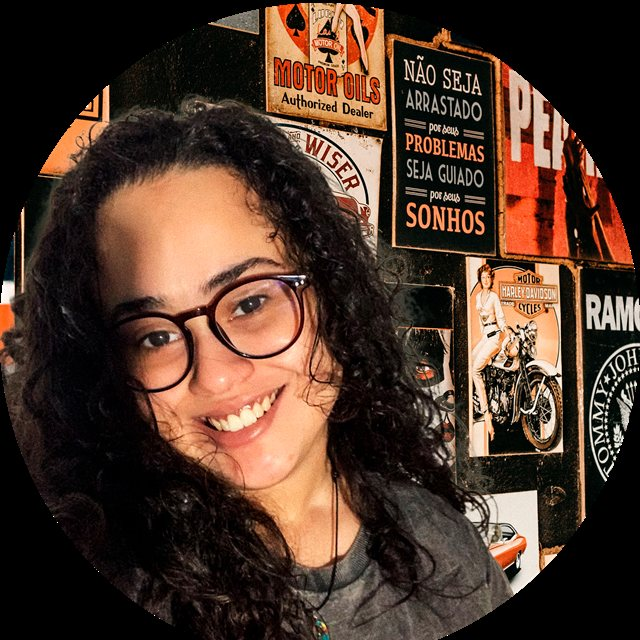
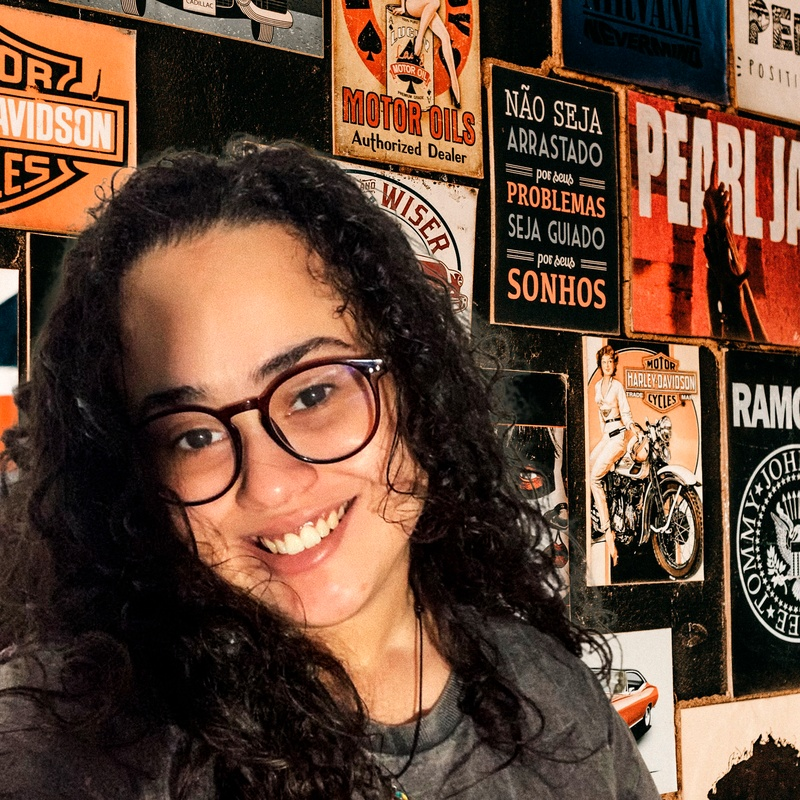
fix: foto 1:1 real na polaroid, celulares em arco panoramico e controles limpos fora de projetos

diff --git a/src/css/style.css b/src/css/style.css
@@ -118,21 +118,21 @@ button:disabled { cursor: wait; }
 .polaroid p { font-size: 11px; line-height: 1.7; margin-top: 6px; }
 
 /* 4. Mockups de Celulares 3D Verticais (Sites) */
-.site-projector { width: 270px; height: 540px; padding: 14px 12px 16px; display: flex; flex-direction: column; background: linear-gradient(145deg, #25262c 0%, #121316 100%); border-radius: 40px; border: 4px solid #363942; box-shadow: 0 25px 65px rgba(0,0,0,0.85), inset 0 0 0 1px rgba(255,255,255,0.14), inset 0 1px 2px rgba(255,255,255,0.25), 0 0 0 1px #090a0d; will-change: transform; }
+.site-projector { width: 240px; height: 480px; padding: 12px 10px 14px; display: flex; flex-direction: column; background: linear-gradient(145deg, #25262c 0%, #121316 100%); border-radius: 36px; border: 3.5px solid #363942; box-shadow: 0 22px 55px rgba(0,0,0,0.85), inset 0 0 0 1px rgba(255,255,255,0.14), inset 0 1px 2px rgba(255,255,255,0.25), 0 0 0 1px #090a0d; will-change: transform; }
 .site-projector.phone-mockup-3d { position: relative; cursor: grab; touch-action: none; user-select: none; }
 .site-projector.phone-mockup-3d:active { cursor: grabbing; }
-.phone-notch-bar { width: 84px; height: 16px; background: #000; border-radius: 20px; margin: 0 auto 10px; display: flex; align-items: center; justify-content: center; gap: 7px; flex-shrink: 0; box-shadow: 0 1px 3px rgba(0,0,0,0.7); z-index: 10; }
+.phone-notch-bar { width: 76px; height: 14px; background: #000; border-radius: 16px; margin: 0 auto 8px; display: flex; align-items: center; justify-content: center; gap: 6px; flex-shrink: 0; box-shadow: 0 1px 3px rgba(0,0,0,0.7); z-index: 10; }
 .phone-lens { width: 7px; height: 7px; border-radius: 50%; background: #0e1726; box-shadow: inset 0 0 3px #3d74c0; }
-.phone-mic { width: 24px; height: 3px; border-radius: 3px; background: #1c1c1f; }
-.phone-specular-glare { position: absolute; inset: 0; border-radius: 36px; pointer-events: none; mix-blend-mode: screen; opacity: 0.42; background: radial-gradient(circle at 50% 50%, rgba(255,255,255,0.2) 0%, transparent 65%); z-index: 8; transition: opacity 0.3s ease; }
+.phone-mic { width: 22px; height: 3px; border-radius: 3px; background: #1c1c1f; }
+.phone-specular-glare { position: absolute; inset: 0; border-radius: 32px; pointer-events: none; mix-blend-mode: screen; opacity: 0.42; background: radial-gradient(circle at 50% 50%, rgba(255,255,255,0.2) 0%, transparent 65%); z-index: 8; transition: opacity 0.3s ease; }
 .projector-label { display: none; }
-.projector-screen { flex: 1; min-height: 0; width: 100%; border-radius: 26px; overflow: hidden; background: #0a0b0d; border: 1px solid rgba(255,255,255,0.06); position: relative; box-shadow: inset 0 0 12px rgba(0,0,0,0.9); display: block; padding: 0; }
+.projector-screen { flex: 1; min-height: 0; width: 100%; border-radius: 22px; overflow: hidden; background: #0a0b0d; border: 1px solid rgba(255,255,255,0.06); position: relative; box-shadow: inset 0 0 12px rgba(0,0,0,0.9); display: block; padding: 0; }
 .projector-screen img { display: block; width: 100%; height: 100%; object-fit: cover; object-position: top center; }
-.projector-footer { display: flex; flex-direction: column; gap: 6px; padding-top: 10px; z-index: 9; }
-.projector-tag { font-size: 9px; color: #d4a76a; text-transform: uppercase; letter-spacing: 0.05em; font-weight: 600; }
-.projector-footer h3 { color: #f2f3f7; font-size: 12.5px; font-weight: 600; white-space: nowrap; overflow: hidden; text-overflow: ellipsis; }
+.projector-footer { display: flex; flex-direction: column; gap: 4px; padding-top: 8px; z-index: 9; }
+.projector-tag { font-size: 8.5px; color: #d4a76a; text-transform: uppercase; letter-spacing: 0.05em; font-weight: 600; white-space: nowrap; overflow: hidden; text-overflow: ellipsis; }
+.projector-footer h3 { color: #f2f3f7; font-size: 11.5px; font-weight: 600; white-space: nowrap; overflow: hidden; text-overflow: ellipsis; }
 .projector-footer p { display: none; }
-.projector-footer a { display: inline-flex; align-items: center; justify-content: center; padding: 7px 12px; border-radius: 8px; background: linear-gradient(135deg, #c99c58, #9e7539); color: #100e08; font-size: 10.5px; font-weight: 650; text-decoration: none; border: 1px solid #dfb77c; box-shadow: 0 4px 12px rgba(0,0,0,0.4); }
+.projector-footer a { display: inline-flex; align-items: center; justify-content: center; padding: 6px 10px; border-radius: 6px; background: linear-gradient(135deg, #c99c58, #9e7539); color: #100e08; font-size: 10px; font-weight: 650; text-decoration: none; border: 1px solid #dfb77c; box-shadow: 0 3px 10px rgba(0,0,0,0.4); }
 .site-projector:not(.is-projected) .projector-screen { filter: brightness(.75) saturate(.85); }
 .site-projector.is-projected { border-color: #c59f63; box-shadow: 0 30px 80px rgba(0,0,0,0.9), 0 0 55px rgba(212,167,106,.25); }
 
@@ -256,12 +256,12 @@ body[data-chapter="contact"] .room-floor { background: radial-gradient(ellipse,r
 .inline-carousel-controls .frame-open { font-size: 11px; padding: 8px; min-width: 100%; margin: 0; background: #d4be96; color: #221e16; }
 .inline-carousel-controls span { font-size: 12px; }
 
-.project-transport { bottom: 52px; padding: 10px; border-color: #62543c; border-radius: 8px; background: linear-gradient(145deg,rgba(41,35,25,.95),rgba(14,14,11,.95)); box-shadow: 0 12px 32px #0008,inset 0 1px 0 #c5aa7833; gap: 12px; }
+.project-transport { bottom: 52px; padding: 10px; border-color: #62543c; border-radius: 8px; background: linear-gradient(145deg,rgba(41,35,25,.95),rgba(14,14,11,.95)); box-shadow: 0 12px 32px #0008,inset 0 1px 0 #c5aa7833; gap: 12px; transition: opacity .25s ease, transform .25s ease, visibility .25s ease; }
+.project-transport.is-hidden { opacity: 0 !important; pointer-events: none !important; visibility: hidden !important; transform: translateY(20px) !important; }
 .project-transport button { border-radius: 4px; width: 40px; height: 40px; box-shadow: inset 0 1px 0 #b6a48033,0 2px 0 #090906; }
 #reel-play-toggle { border-left-color: #b49662; background: #463820; color: #efd3a1; }
 #project-title { font-size: 11px; }
 
-.site-projector { background: linear-gradient(135deg,#3d3e35,#171a15); border-color: #5c6150; box-shadow: 6px 10px 0 #080b07,0 24px 48px #0009,inset 0 1px 0 #d1d5af44; }
 .site-projector.is-projected { border-color: #d4a76a; box-shadow: 0 30px 80px rgba(0,0,0,0.9), 0 0 65px rgba(212,167,106,.3); }
 
 .polaroid { box-shadow: 6px 28px 65px rgba(0,0,0,.7), 4px 6px 0 #9e9a8f; }

diff --git a/src/js/projector-wall.js b/src/js/projector-wall.js
@@ -4,9 +4,9 @@ import { gsap } from 'gsap';
 
 /**
  * Fase 3: Mockups Físicos de Smartphones 3D Verticais (Sites Desenvolvidos)
- * Substitui monitores horizontais por mockups realistas de celulares em pé:
- * chassis metálico chanfrado, entalhe de câmera / Dynamic Island, reflexo de vidro
- * especular e rotação 3D interativa livre (Drag 3D).
+ * Dispostos em uma elegante fileira panorâmica em arco 3D.
+ * Chassis metálico chanfrado, entalhe de câmera / Dynamic Island,
+ * prints mobile autênticos e rotação 3D interativa livre (Drag 3D).
  */
 export class ProjectorWall extends THREE.Group {
   constructor(elements) {
@@ -17,10 +17,9 @@ export class ProjectorWall extends THREE.Group {
     this.needsLayout = false;
     this.events = new AbortController();
 
-    this.panels = elements.map((element, index) => {
-      const column = index % 2;
-      const row = Math.floor(index / 2);
+    const count = elements.length;
 
+    this.panels = elements.map((element, index) => {
       element.classList.add('phone-mockup-3d');
       element.style.transformStyle = 'preserve-3d';
 
@@ -42,13 +41,23 @@ export class ProjectorWall extends THREE.Group {
       }
 
       const panel = new CSS3DObject(element);
-      // Posiciona os smartphones verticais com espaçamento proporcional
-      panel.position.set((column - 0.5) * 360, (0.5 - row) * 580, column ? 25 : -25);
-      panel.rotation.y = column ? -0.12 : 0.12;
-      panel.userData.baseRotY = panel.rotation.y;
+      // Posição panorâmica em linha (lado a lado) com arco suave
+      const offset = index - (count - 1) / 2; // -1.5, -0.5, 0.5, 1.5
+      const baseX = offset * 290;
+      const baseZ = -Math.abs(offset) * 28;
+      const baseRotY = -offset * 0.08;
+
+      panel.position.set(baseX, -10, baseZ);
+      panel.rotation.set(0, baseRotY, 0);
+
+      panel.userData.baseX = baseX;
+      panel.userData.baseZ = baseZ;
+      panel.userData.baseRotY = baseRotY;
+      panel.userData.index = index;
+
       this.add(panel);
 
-      // Rotação 3D interativa individual (Drag 3D)
+      // Rotação 3D interativa individual (Drag 3D) direto no CSS3DObject do Three.js
       this.attachPhoneDrag(element, panel);
 
       return panel;
@@ -66,11 +75,12 @@ export class ProjectorWall extends THREE.Group {
     const glare = element.querySelector('.phone-specular-glare');
 
     const updateTransform = () => {
-      element.style.transform = `perspective(1000px) rotateX(${rotX}deg) rotateY(${rotY}deg)`;
+      panel.rotation.x = rotX;
+      panel.rotation.y = panel.userData.baseRotY + rotY;
       if (glare) {
-        const gx = 50 + rotY * 1.6;
-        const gy = 50 + rotX * 1.6;
-        glare.style.background = `radial-gradient(circle at ${gx}% ${gy}%, rgba(255,255,255,0.22) 0%, transparent 65%)`;
+        const gx = 50 + THREE.MathUtils.radToDeg(rotY) * 1.5;
+        const gy = 50 + THREE.MathUtils.radToDeg(rotX) * 1.5;
+        glare.style.background = `radial-gradient(circle at ${gx}% ${gy}%, rgba(255,255,255,0.24) 0%, transparent 65%)`;
       }
     };
 
@@ -80,7 +90,7 @@ export class ProjectorWall extends THREE.Group {
       startX = e.clientX;
       startY = e.clientY;
       element.setPointerCapture?.(e.pointerId);
-      gsap.killTweensOf(element);
+      gsap.killTweensOf(panel.rotation);
     }, { signal });
 
     window.addEventListener('pointermove', (e) => {
@@ -90,8 +100,8 @@ export class ProjectorWall extends THREE.Group {
       startX = e.clientX;
       startY = e.clientY;
 
-      rotY = Math.max(-42, Math.min(42, rotY + dx * 0.38));
-      rotX = Math.max(-30, Math.min(30, rotX - dy * 0.38));
+      rotY = THREE.MathUtils.clamp(rotY + dx * 0.0035, -0.45, 0.45);
+      rotX = THREE.MathUtils.clamp(rotX - dy * 0.0035, -0.35, 0.35);
       updateTransform();
     }, { signal });
 
@@ -101,7 +111,7 @@ export class ProjectorWall extends THREE.Group {
       if (e?.pointerId && element.hasPointerCapture?.(e.pointerId)) {
         element.releasePointerCapture(e.pointerId);
       }
-      // Retorna com rebote suave e elástico para a posição frontal
+      // Retorna com rebote suave e elástico para a rotação base
       const target = { x: rotX, y: rotY };
       gsap.to(target, {
         x: 0,
@@ -132,15 +142,12 @@ export class ProjectorWall extends THREE.Group {
       panel.element.classList.toggle('is-projected', active);
 
       if (changed) {
+        const targetZ = this.compact
+          ? (active ? 60 : -40)
+          : panel.userData.baseZ + (active ? 65 : 0);
         gsap.to(panel.position, {
-          z: active ? 85 : -30,
-          duration: 0.6,
-          ease: 'power3.out',
-          overwrite: true
-        });
-        gsap.to(panel.rotation, {
-          y: active || this.compact ? 0 : position % 2 ? -0.15 : 0.15,
-          duration: 0.6,
+          z: targetZ,
+          duration: 0.55,
           ease: 'power3.out',
           overwrite: true
         });
@@ -150,10 +157,12 @@ export class ProjectorWall extends THREE.Group {
     this.activeIndex = index;
     const target = this.panels[index];
     if (changed && target) {
+      const targetX = this.compact
+        ? -target.position.x
+        : -target.position.x * 0.12;
       gsap.to(this.position, {
-        x: -target.position.x * (this.compact ? 1 : 0.08),
-        y: this.compact ? 0 : -target.position.y * 0.08,
-        duration: 0.6,
+        x: targetX,
+        duration: 0.55,
         ease: 'power3.out',
         overwrite: true,
       });
@@ -165,9 +174,15 @@ export class ProjectorWall extends THREE.Group {
     this.needsLayout = this.compact !== compact;
     this.compact = compact;
     this.panels.forEach((panel, index) => {
-      panel.position.x = compact ? index * 340 : (index % 2 - 0.5) * 360;
-      panel.position.y = compact ? 0 : (0.5 - Math.floor(index / 2)) * 580;
-      panel.rotation.y = compact ? 0 : index % 2 ? -0.12 : 0.12;
+      if (compact) {
+        panel.position.x = index * 300;
+        panel.position.y = 0;
+        panel.rotation.y = 0;
+      } else {
+        panel.position.x = panel.userData.baseX;
+        panel.position.y = -10;
+        panel.rotation.y = panel.userData.baseRotY;
+      }
     });
   }
 

diff --git a/src/index.html b/src/index.html
@@ -8,7 +8,7 @@
   <meta name="description" content="Uma viagem pelos projetos de web design e social media de Camilla Paschoal. Artes reais, ideias em movimento e novas histórias para criar.">
   <link rel="icon" href="/assets/logo-cp-96.webp" type="image/webp">
   <link rel="preload" href="/assets/fonts/montserrat-latin.woff2" as="font" type="font/woff2" crossorigin>
-  <link rel="stylesheet" href="./css/style.css?v=20261108-retro-analogo">
+  <link rel="stylesheet" href="./css/style.css?v=20261109-perfeito">
 </head>
 <body data-chapter="projects">
   <div id="ambient-glow" aria-hidden="true"></div>
@@ -121,6 +121,6 @@
   <noscript>
     <div class="no-script">Ative o JavaScript para explorar o portfólio. Você também pode acessar <a href="https://ccpaschoal.github.io/">o site da Camilla</a>.</div>
   </noscript>
-  <script type="module" src="./js/main.js?v=20261108-retro-analogo"></script>
+  <script type="module" src="./js/main.js?v=20261109-perfeito"></script>
 </body>
 </html>

diff --git a/src/js/gsap-animations.js b/src/js/gsap-animations.js
@@ -264,10 +264,11 @@ export class CinematicStory {
       else link.removeAttribute('aria-current');
     });
     if (this.transport) {
-      this.transport.inert = chapter !== 'projects';
-      this.transport.classList.toggle('is-hidden', chapter !== 'projects');
-      this.transport.style.opacity = String(1 - gsap.utils.clamp(0, 1, (this.state.reelMorph - 0.58) / 0.24));
-      this.transport.style.pointerEvents = this.state.reelMorph > 0.8 ? 'none' : '';
+      const isProjects = chapter === 'projects';
+      this.transport.inert = !isProjects;
+      this.transport.classList.toggle('is-hidden', !isProjects);
+      this.transport.style.opacity = isProjects ? '1' : '0';
+      this.transport.style.pointerEvents = isProjects ? '' : 'none';
     }
     if (this.progressBar) this.progressBar.style.transform = `scaleX(${phase})`;
     const number = { projects: '01', sites: '02', about: '03', contact: '04' }[chapter];
